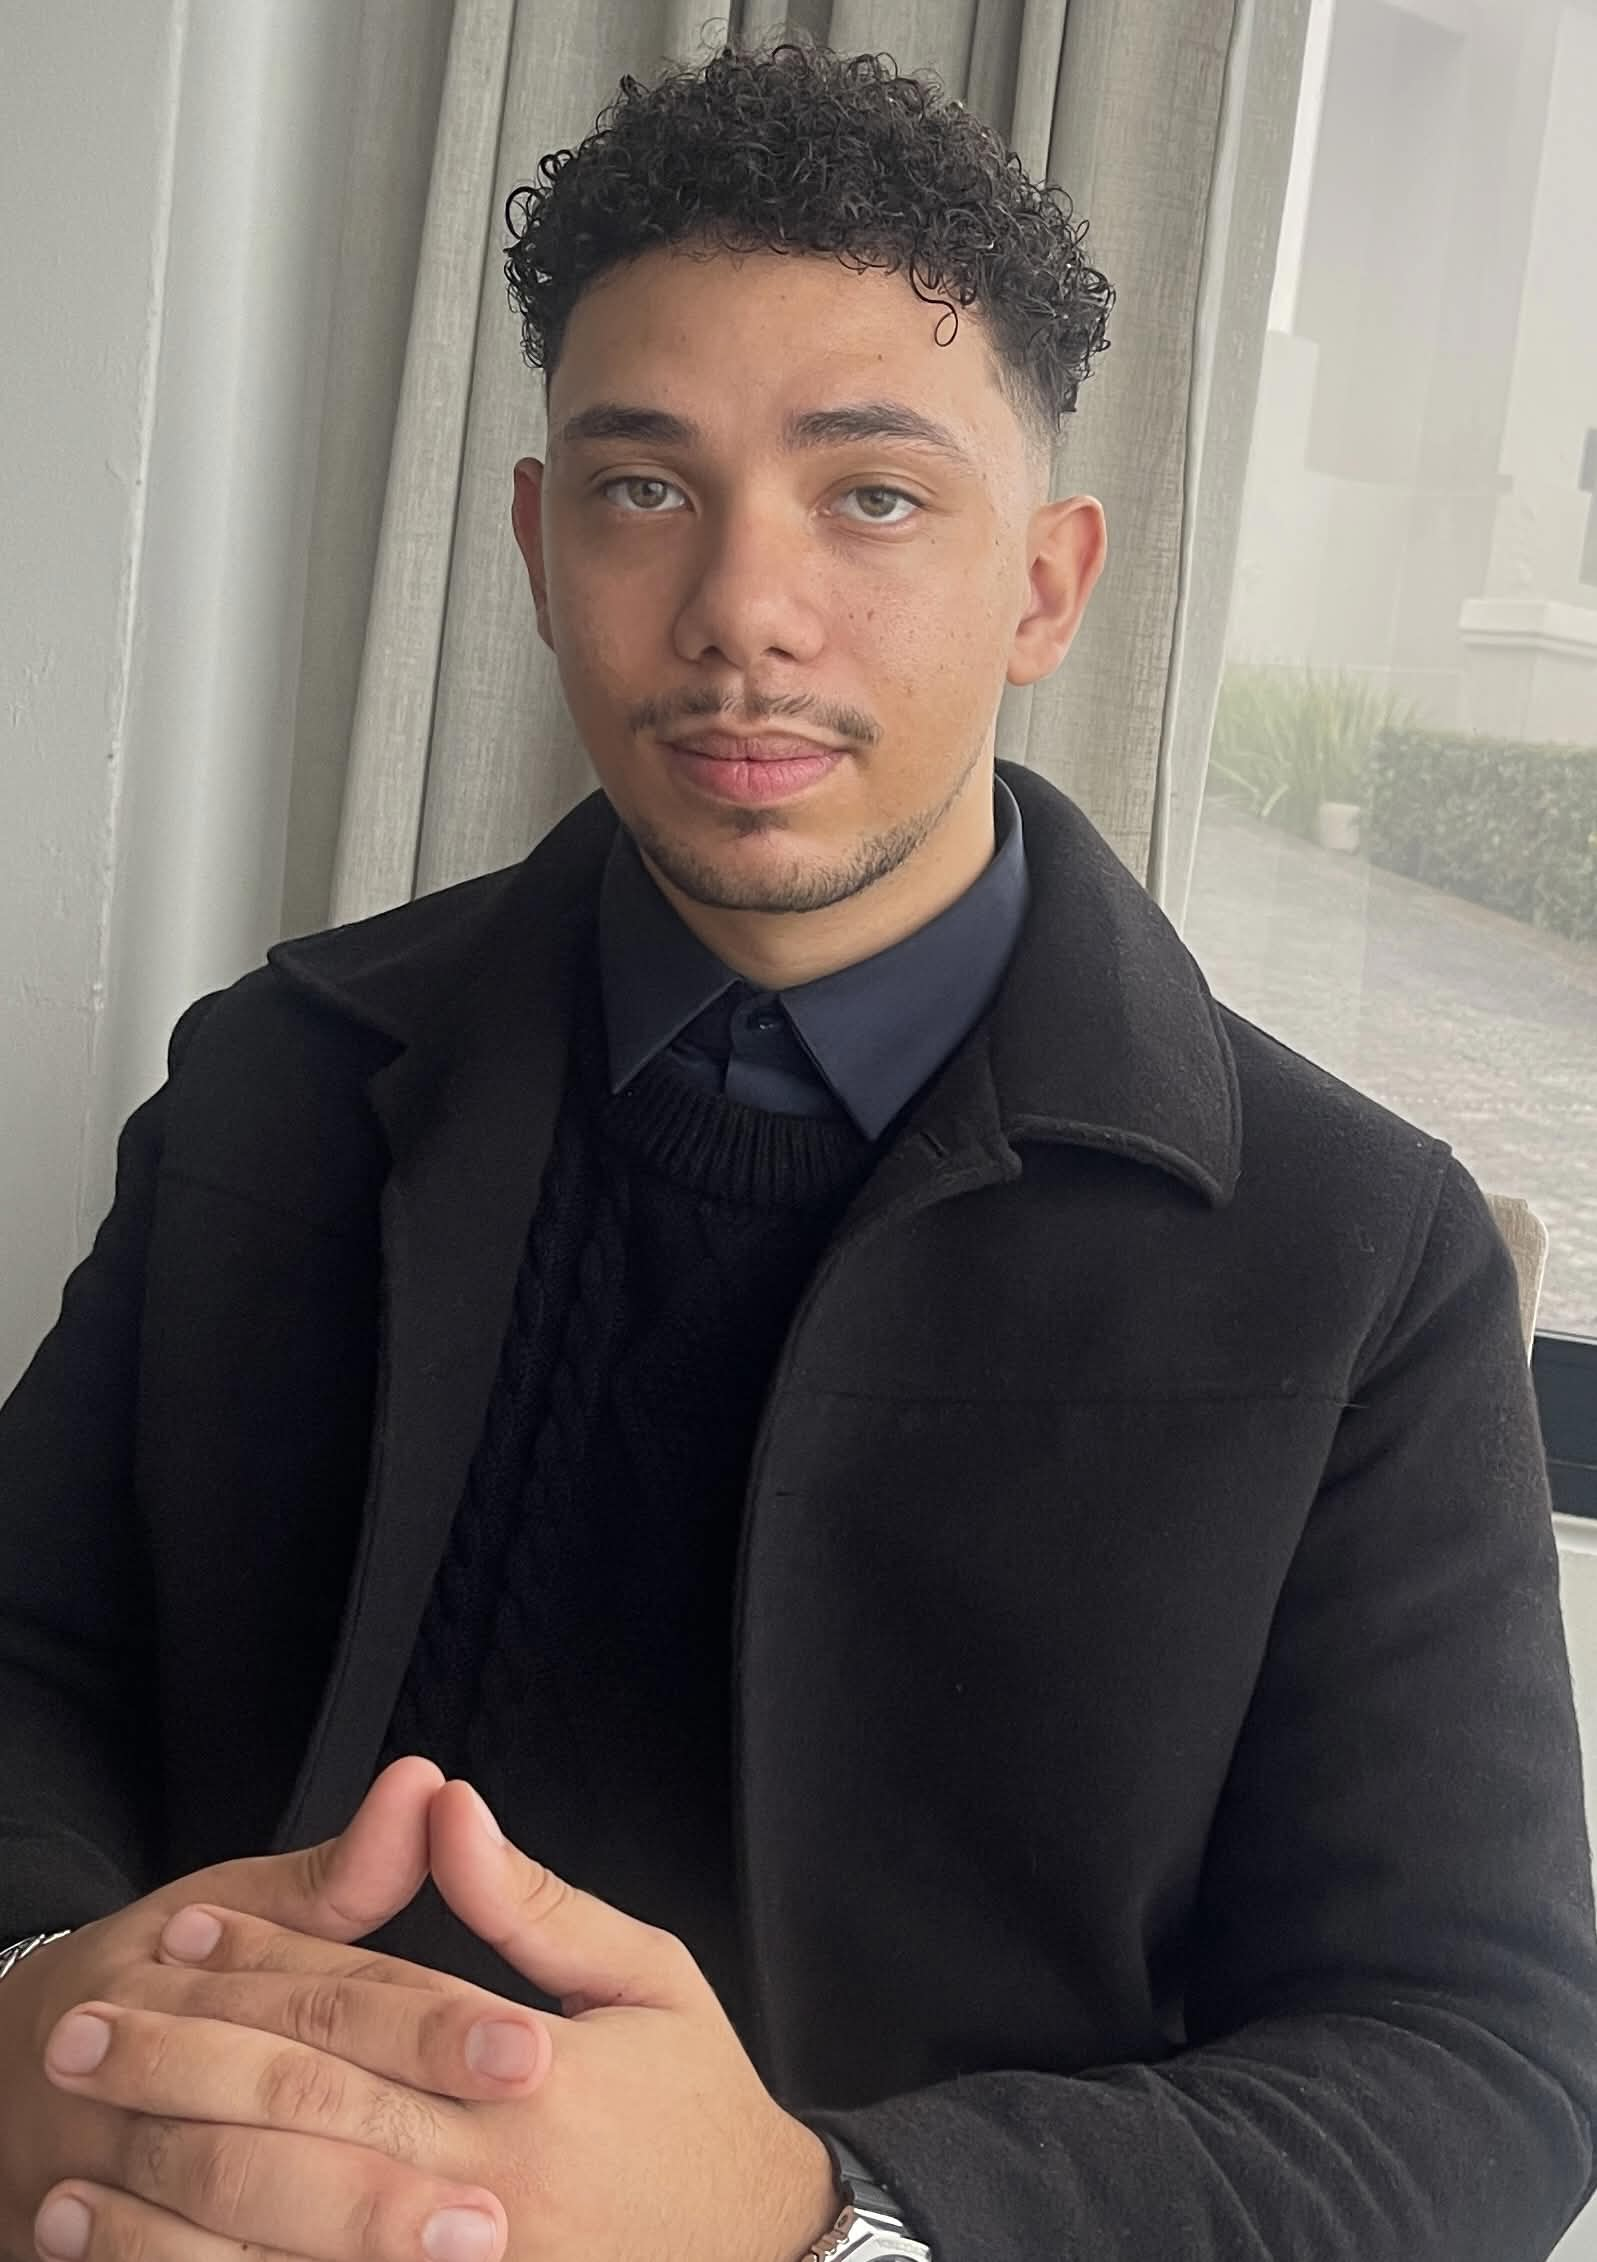
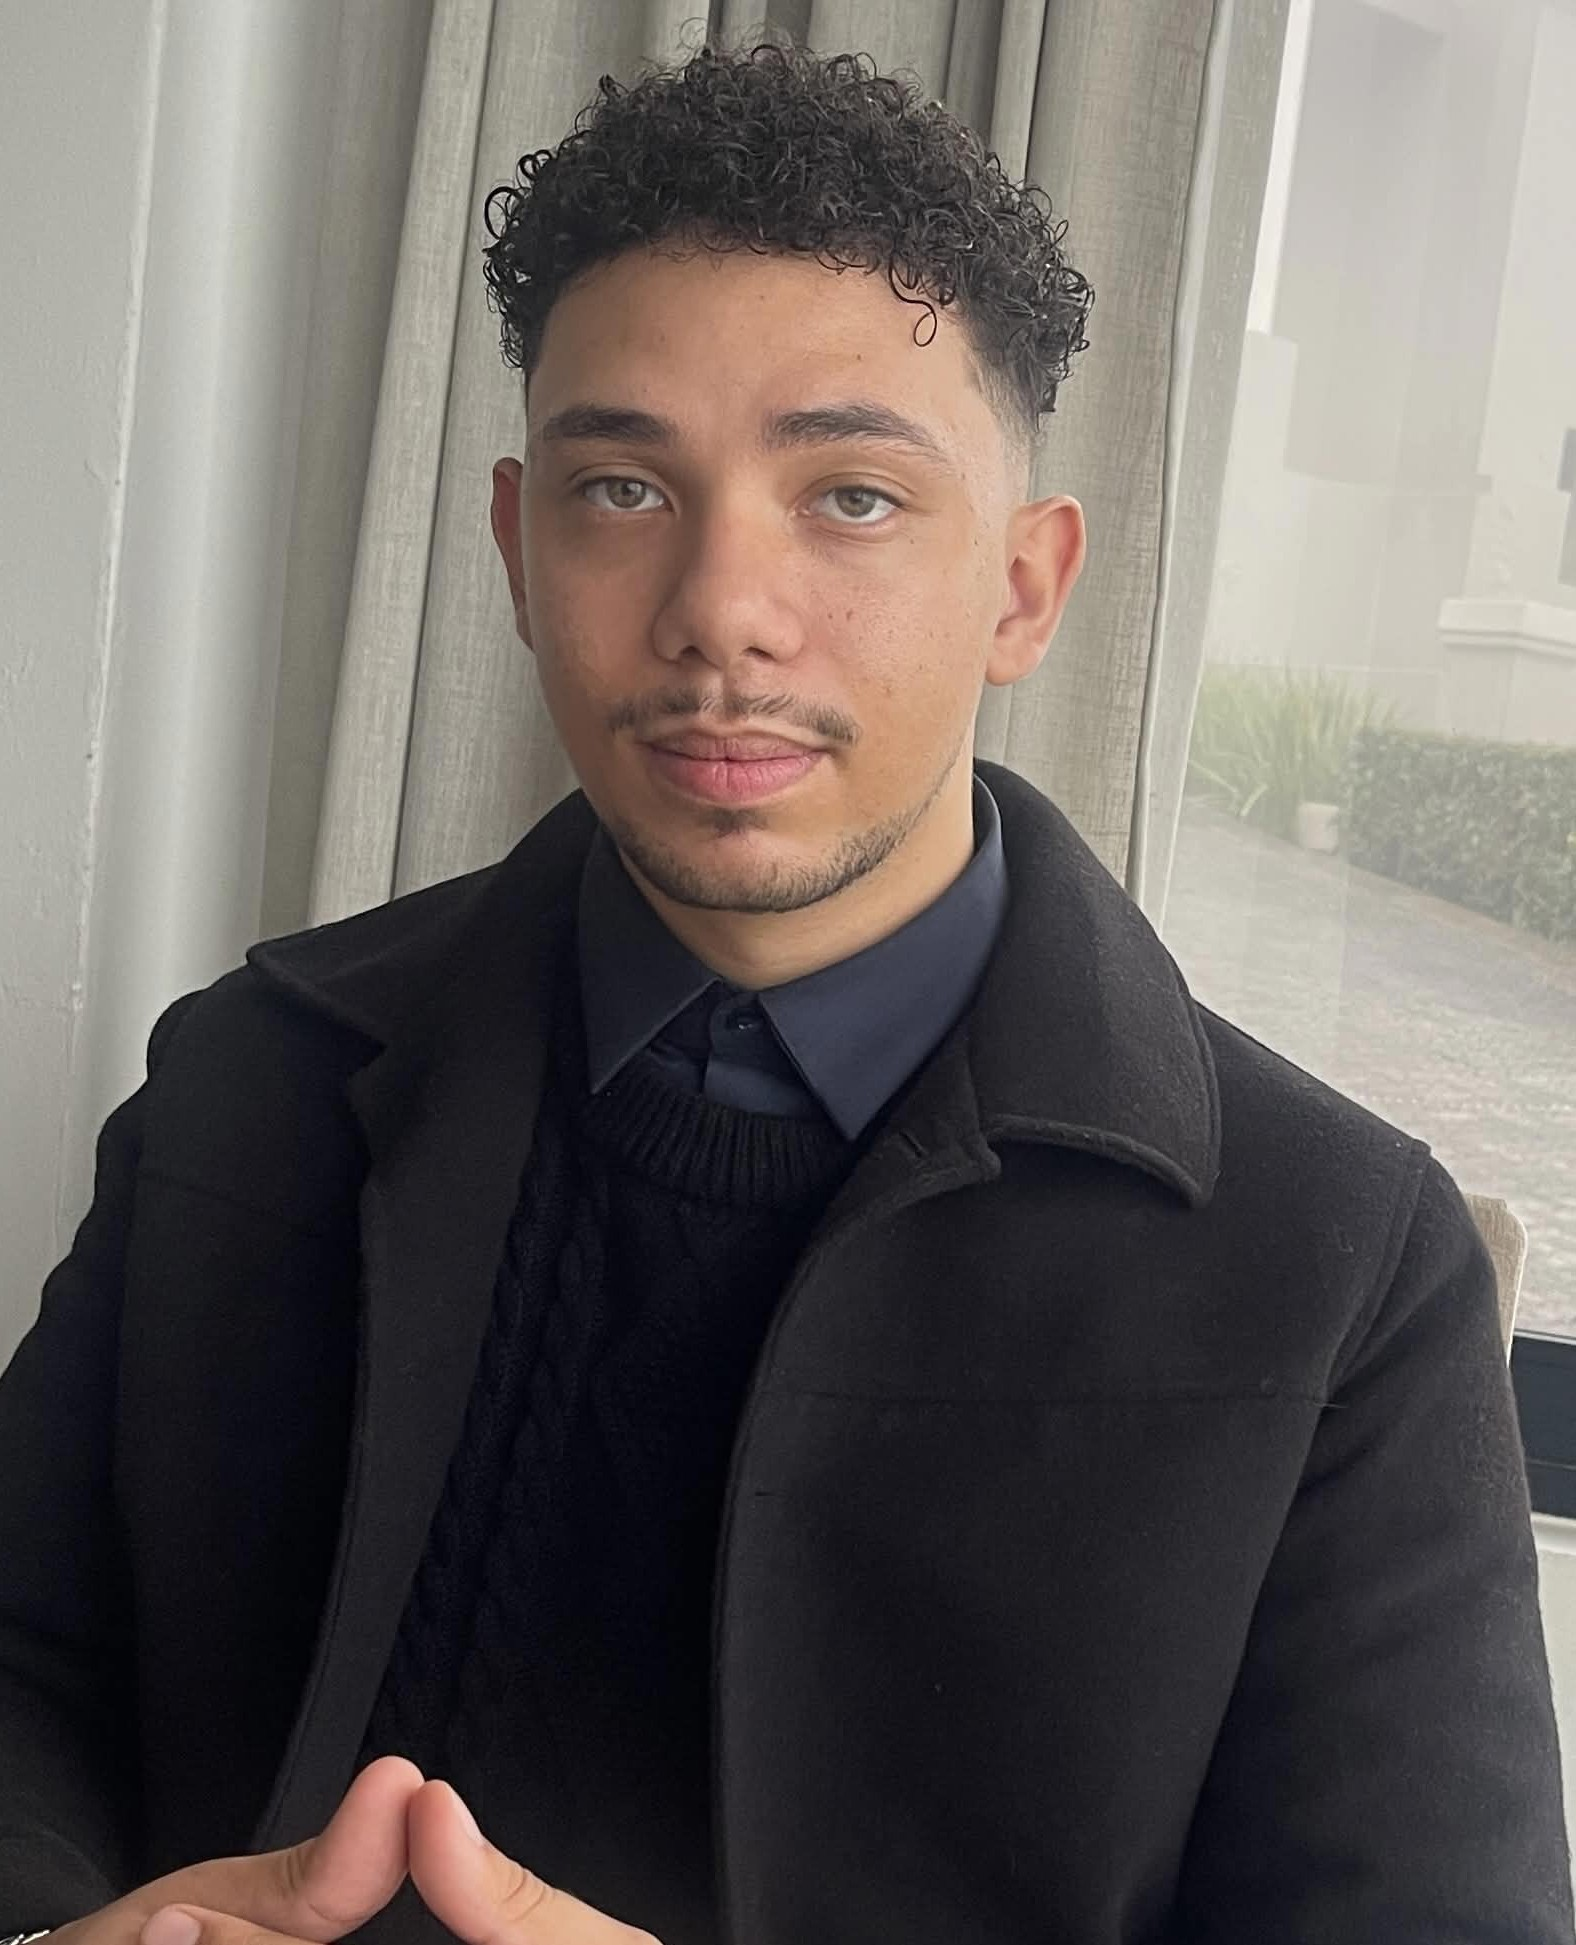
Two-column about layout with headshot, padding adjustments

diff --git a/index.html b/index.html
@@ -40,28 +40,32 @@
           <div class="carousel-track" id="about-track">
             <!-- Slide 1: About Me -->
             <div class="carousel-slide about-slide">
-              <div class="about-header">
-                <h2 class="section-title">About Me</h2>
-                <div class="headshot-frame">
-                  <img src="assets/me2.png" alt="Caleb Steenkamp" class="headshot-img">
+              <h2 class="section-title">About Me</h2>
+              <div class="about-content">
+                <div class="about-left">
+                  <p class="about-text">
+                    I am a pending Computer Science graduate from Wits University, passionate about automation, software development,
+                    and building systems that bridge the digital and physical worlds. I believe the future is automation, and I want
+                    to play a part in shaping it through intelligent software and integrated machinery solutions.
+                  </p>
+
+                  <ul class="skills-list">
+                    <li><strong>Languages:</strong> Java, Python, TypeScript, JavaScript, C++, C, GDScript, SQL</li>
+                    <li><strong>Frameworks & Tools:</strong> React, Node.js, Express, Tailwind CSS, Godot, Git, Docker</li>
+                    <li><strong>Skills:</strong> Web Development, Game Development, Algorithmic thinking, Problem Solving</li>
+                    <li><strong>Experience:</strong> Xencode Internship, Tutor Doctor, University Projects, Personal Projects</li>
+                  </ul>
+
+                  <a href="assets/Caleb_Steenkamp_Short_CV_2026.pdf" target="_blank" rel="noopener noreferrer" class="cv-link">
+                    View My CV &rarr;
+                  </a>
+                </div>
+                <div class="about-right">
+                  <div class="headshot-frame">
+                    <img src="assets/Me.jpg" alt="Caleb Steenkamp" class="headshot-img">
+                  </div>
                 </div>
               </div>
-              <p class="about-text">
-                I am a pending Computer Science graduate from Wits University, passionate about automation, software development,
-                and building systems that bridge the digital and physical worlds. I believe the future is automation, and I want
-                to play a part in shaping it through intelligent software and integrated machinery solutions.
-              </p>
-
-              <ul class="skills-list">
-                <li><strong>Languages:</strong> Java, Python, TypeScript, JavaScript, C++, C, GDScript, SQL</li>
-                <li><strong>Frameworks & Tools:</strong> React, Node.js, Express, Tailwind CSS, Godot, Git, Docker</li>
-                <li><strong>Skills:</strong> Web Development, Game Development, Algorithmic thinking, Problem Solving</li>
-                <li><strong>Experience:</strong> Xencode Internship, Tutor Doctor, University Projects, Personal Projects</li>
-              </ul>
-
-              <a href="assets/Caleb_Steenkamp_Short_CV_2026.pdf" target="_blank" rel="noopener noreferrer" class="cv-link">
-                View My CV &rarr;
-              </a>
             </div>
             <!-- Slide 2: Progress -->
             <div class="carousel-slide about-slide">

diff --git a/css/style.css b/css/style.css
@@ -237,24 +237,33 @@ a:hover { opacity: 0.8; text-decoration: underline; }
 }
 
 /* ===== About Section ===== */
-.about-header {
+.about-content {
   display: flex;
-  align-items: center;
-  justify-content: space-between;
-  gap: 1.5rem;
-  margin-bottom: 1rem;
+  gap: 2rem;
+  margin-top: 1rem;
+}
+
+.about-left {
+  flex: 1;
+}
+
+.about-right {
+  display: flex;
+  align-items: flex-start;
+  justify-content: flex-end;
+  padding-top: 2rem;
 }
 
 .headshot-frame {
-  max-width: 150px;
-  max-height: 150px;
-  margin-left: auto;
+  width: 300px;
+  height: 400px;
   border: 4px solid var(--card-border);
   background: var(--input-bg);
   display: flex;
   align-items: center;
-  justify-content: center;
+  justify-content: start;
   position: relative;
+  overflow: hidden;
   box-shadow: 
     4px 0 0 0 var(--accent),
     -4px 0 0 0 var(--accent),
@@ -265,7 +274,8 @@ a:hover { opacity: 0.8; text-decoration: underline; }
 .headshot-img {
   width: 100%;
   height: 100%;
-  object-fit: contain;
+  object-fit: cover;
+  object-position: top center;
   display: block;
 }
 
